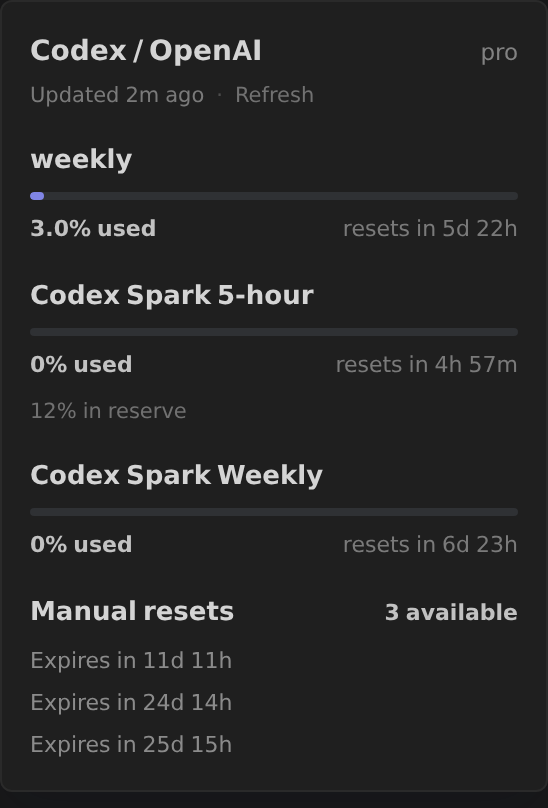
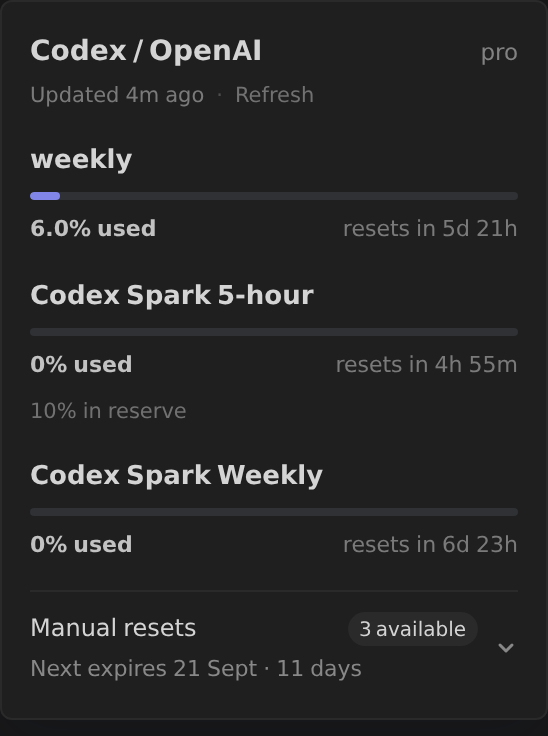
feat: compact Codex reset credit details

diff --git a/ui/bundle.js b/ui/bundle.js
@@ -27,12 +27,20 @@ var TOPBAR_CSS =
   "#provider-usage-topbar[data-provider-usage-mode=icon]{width:28px}" +
   "@media (max-width:639px){#provider-usage-topbar{height:44px;min-height:44px}" +
   "#provider-usage-topbar[data-provider-usage-mode=icon]{width:44px}}";
+var RESET_CREDITS_CSS =
+  ".provider-reset-credits summary{list-style:none;cursor:pointer;border-radius:4px}" +
+  ".provider-reset-credits summary::-webkit-details-marker{display:none}" +
+  ".provider-reset-credits summary:hover{background:var(--muted)}" +
+  ".provider-reset-credits summary:focus-visible{outline:2px solid var(--ring);outline-offset:3px}" +
+  ".provider-reset-credits .provider-reset-chevron{transition:transform 150ms ease-out}" +
+  ".provider-reset-credits details[open] .provider-reset-chevron{transform:rotate(180deg)}" +
+  "@media (prefers-reduced-motion:reduce){.provider-reset-credits .provider-reset-chevron{transition:none}}";
 
 function injectTopbarStyles() {
   if (typeof document === "undefined" || document.getElementById(TOPBAR_STYLE_ID)) return;
   var style = document.createElement("style");
   style.id = TOPBAR_STYLE_ID;
-  style.textContent = TOPBAR_CSS;
+  style.textContent = TOPBAR_CSS + RESET_CREDITS_CSS;
   document.head.appendChild(style);
 }
 
@@ -377,6 +385,21 @@ function providerIndex(providers, provider) {
   return -1;
 }
 
+// Long-lived credits need calendar dates, not day-and-hour ticking counters.
+// Keep the exact local timestamp available in the expanded inventory as well.
+function resetCreditExpiry(at, now) {
+  var date = new Date(at || "");
+  var ms = date.getTime() - now;
+  if (!isFinite(ms) || ms <= 0) return null;
+  var unit = ms >= 86400000 ? "day" : ms >= 3600000 ? "hour" : "minute";
+  var value = Math.floor(ms / (unit === "day" ? 86400000 : unit === "hour" ? 3600000 : 60000));
+  var relative = value ? value + " " + unit + (value === 1 ? "" : "s") : "under 1 minute";
+  return {
+    label: date.toLocaleDateString(undefined, { month: "short", day: "numeric" }) + " · " + relative,
+    exact: date.toLocaleString(undefined, { dateStyle: "medium", timeStyle: "long" }),
+  };
+}
+
 // Manual resets are an inventory, separate from scheduled quota resets. Filter
 // at render time too: an available credit can expire between backend polls.
 function resetCreditsPanel(h, provider) {
@@ -397,34 +420,64 @@ function resetCreditsPanel(h, provider) {
   var summary = typeof count === "number" ? count + " available" : data.summary;
   if (!summary) return null;
 
-  function expiry(at, next) {
-    if (!at || !isFinite(new Date(at).getTime())) return h("span", null, "Expiry not reported");
-    return h(
-      "time",
-      { dateTime: at, title: new Date(at).toLocaleString() },
-      fmtReset({ reset_at: at }).replace(/^resets/, next ? "Next expires" : "Expires"),
-    );
+  var entries = available;
+  if (!inventory.length && count !== 0 && resetCreditExpiry(data.next_expires_at, now)) {
+    entries = [{ expires_at: data.next_expires_at }];
   }
-
-  return h(
-    "section",
-    { "aria-label": "Manual resets", style: { display: "flex", flexDirection: "column", gap: "6px", fontVariantNumeric: "tabular-nums" } },
+  var nearest = entries.length && resetCreditExpiry(entries[0].expires_at, now);
+  var heading = h(
+    entries.length ? "summary" : "div",
+    { style: { display: "flex", alignItems: "center", gap: "8px", minHeight: entries.length ? "44px" : "28px" } },
     h(
-      "div",
-      { style: { display: "flex", justifyContent: "space-between", alignItems: "baseline", gap: "12px", flexWrap: "wrap" } },
-      h("span", { style: { fontWeight: 700, fontSize: "13px" } }, "Manual resets"),
-      h("span", { style: { fontWeight: 600, fontSize: "11px", opacity: 0.9 } }, summary),
+      "span",
+      { style: { display: "flex", flexDirection: "column", gap: "3px", flex: 1, minWidth: 0 } },
+      h(
+        "span",
+        { style: { display: "flex", justifyContent: "space-between", alignItems: "center", gap: "8px", flexWrap: "wrap" } },
+        h("span", { style: { fontWeight: 500, fontSize: "12px" } }, "Manual resets"),
+        h("span", { style: { fontWeight: 500, fontSize: "10px", padding: "1px 6px", borderRadius: "999px", background: "var(--muted)" } }, summary),
+      ),
+      entries.length
+        ? h("span", { style: { color: "var(--muted-foreground)" } }, nearest ? "Next expires " + nearest.label : "Expiry not reported")
+        : null,
     ),
-    available.length
+    entries.length
       ? h(
-          "ul",
-          { style: { listStyle: "none", margin: 0, padding: 0, display: "flex", flexDirection: "column", gap: "3px", fontSize: "11px", opacity: 0.6 } },
-          available.map(function (credit, i) { return h("li", { key: i }, expiry(credit.expires_at, false)); }),
+          "svg",
+          { className: "provider-reset-chevron", width: 12, height: 12, viewBox: "0 0 12 12", fill: "none", stroke: "currentColor", strokeWidth: 1.5, "aria-hidden": "true", focusable: false, style: { flex: "0 0 auto", color: "var(--muted-foreground)" } },
+          h("path", { d: "m3 4.5 3 3 3-3", strokeLinecap: "round", strokeLinejoin: "round" }),
         )
       : null,
-    !inventory.length && data.next_expires_at && new Date(data.next_expires_at).getTime() > now
-      ? h("div", { style: { fontSize: "11px", opacity: 0.6 } }, expiry(data.next_expires_at, true))
-      : null,
+  );
+  return h(
+    "section",
+    { className: "provider-reset-credits", "aria-label": "Manual resets", style: { borderTop: "1px solid var(--border)", paddingTop: "6px", color: "var(--foreground)", fontSize: "11px", lineHeight: 1.5, fontVariantNumeric: "tabular-nums" } },
+    entries.length
+      ? h(
+          "details",
+          null,
+          heading,
+          h(
+            "ul",
+            { "aria-label": "Reset credit expirations", style: { listStyle: "none", margin: 0, padding: "8px 0 2px", display: "flex", flexDirection: "column", gap: "8px" } },
+            entries.map(function (credit, i) {
+              var expiry = resetCreditExpiry(credit.expires_at, now);
+              return h(
+                "li",
+                { key: i },
+                expiry
+                  ? h(
+                      "time",
+                      { dateTime: credit.expires_at, title: expiry.exact, style: { display: "flex", flexDirection: "column", gap: "1px" } },
+                      h("span", null, expiry.label),
+                      h("span", { style: { color: "var(--muted-foreground)", fontSize: "10px" } }, expiry.exact),
+                    )
+                  : h("span", { style: { color: "var(--muted-foreground)" } }, "Expiry not reported"),
+              );
+            }),
+          ),
+        )
+      : heading,
   );
 }
 
@@ -935,7 +988,7 @@ function statusMeterDrawerRow(host, usage, warn, high) {
       key: usage.provider,
       role: "group",
       "aria-label": title,
-      className: "flex w-full min-w-0 items-center gap-3",
+      className: "flex w-full min-w-0 items-start gap-3",
       style: { minHeight: "44px", userSelect: "none", WebkitUserSelect: "none" },
     },
     providerIcon(h, usage.provider, 18, providerLabel(usage.provider)),

diff --git a/docs/screenshots/README.md b/docs/screenshots/README.md
@@ -12,13 +12,21 @@ actual plugin host. Playwright replayed the normalized live webhook response in
 the browser; this was not a packaged-plugin installation. The existing Kandev
 instance's plugin configuration and settings were left unchanged.
 
-- `codex-manual-resets-light.png`: desktop status-bar hover panel, light theme.
-- `codex-manual-resets-dark.png`: desktop status-bar hover panel, dark theme.
-- `codex-manual-resets-mobile.png`: provider row in the phone Status drawer.
+- `codex-manual-resets-light.png`: collapsed desktop summary, light theme.
+- `codex-manual-resets-dark.png`: collapsed desktop summary, dark theme.
+- `codex-manual-resets-mobile.png`: collapsed provider row in the phone Status drawer.
+- `codex-manual-resets-light-expanded.png`: expanded desktop inventory, light theme.
+- `codex-manual-resets-dark-expanded.png`: expanded desktop inventory, dark theme.
+- `codex-manual-resets-mobile-expanded.png`: expanded reset details after scrolling
+  the phone Status drawer so every expiry is visible.
 
 Chromium used a 1440 × 1000 desktop viewport and a 390 × 844 touch viewport,
 both at 2× device scale. Captures are cropped to the relevant panel or row.
-Browser assertions checked the three-credit count, every exact expiry timestamp,
-ascending expiry order, and absence of horizontal overflow in all three views.
+Browser assertions checked the three-credit count and nearest expiry while
+collapsed; every exact local timestamp and ascending expiry order when expanded;
+and absence of horizontal overflow in both states. Enter and Space opened and
+closed the desktop disclosure; tapping did the same on the phone. The summary
+has a 44 px tap target. The phone provider icon stays aligned with its name, and
+the expanded inventory is reachable through the drawer's normal scrolling.
 All assertions passed without browser errors. Credentials, account identifiers,
 and raw CodexBar output are not included.

diff --git a/README.md b/README.md
@@ -52,10 +52,12 @@ manifest's `config_schema` and grouped by source:
   ("48% in reserve").
 - **Codex manual resets**: the provider panel and phone Status drawer show
   available reset credits separately from the scheduled quota countdowns.
-  When CodexBar supplies an inventory, every available credit's expiry is
-  listed soonest first; redeemed, expired, and unknown-status credits are
-  excluded. Credits without an expiry show "Expiry not reported". Count-only
-  reports stay count-only; Win-CodexBar supplies a summary and the next expiry.
+  A compact summary shows the available count and nearest expiry. Click, tap,
+  or use the keyboard to expand the inventory, sorted soonest first, with
+  calendar dates and exact local timestamps. Redeemed, expired, and
+  unknown-status credits are excluded. Credits without an expiry show
+  "Expiry not reported". Count-only reports stay count-only; Win-CodexBar
+  supplies a summary and the next expiry.
   Missing reset data leaves the section hidden, while a reported zero is shown
   as zero. This is display-only; the plugin does not redeem credits.
 - **Augment** is a special case: codexbar can't read it off macOS, so it's
